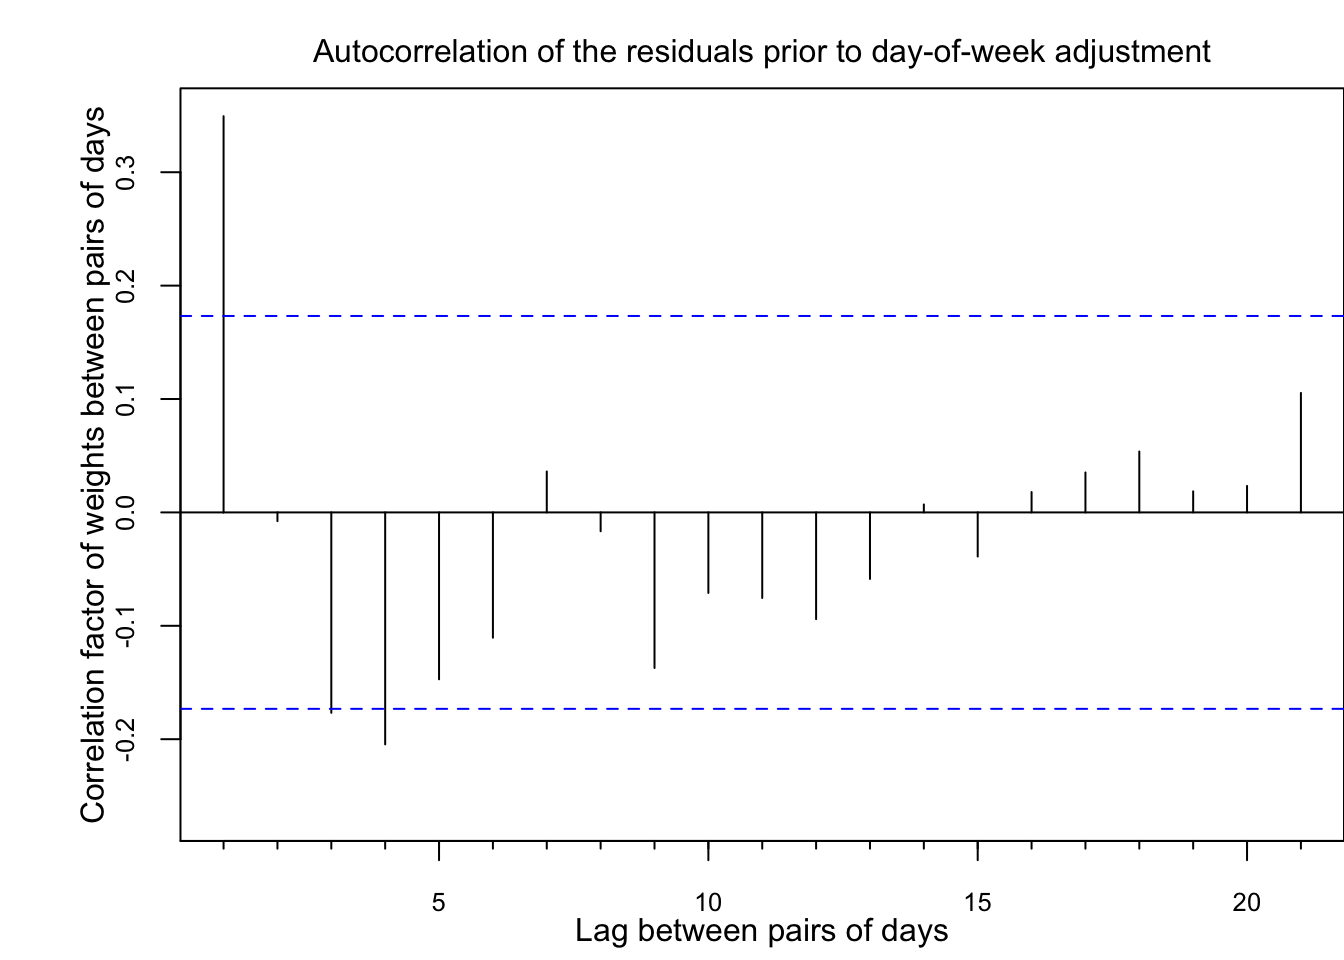
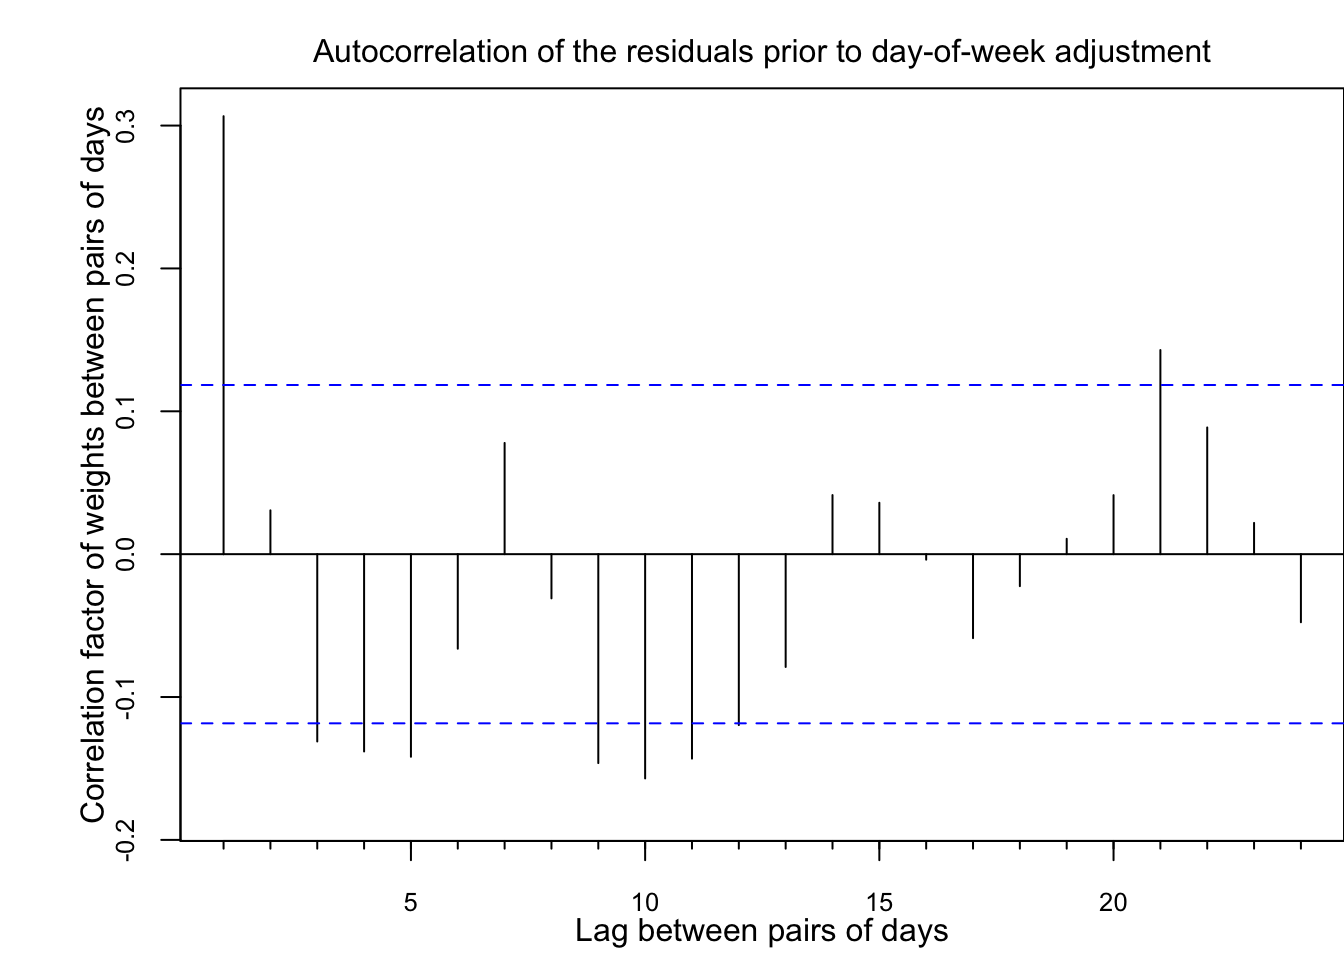
Added GitHub and Shiny links. Corrected minor issue with the ACF plot.

diff --git a/public/2018/02/03/weighing-up-the-data/index.html b/public/2018/02/03/weighing-up-the-data/index.html
@@ -464,7 +464,7 @@ wts.model %&gt;%
      cex.axis = 0.8) 
 
 wts.pred %&gt;%
-  filter(date &lt; ymd(&quot;2017/8/1&quot;), date &lt;= ymd(&quot;2017/12/24&quot;)) %&gt;%
+  filter(date &lt;= ymd(&quot;2017/12/24&quot;)) %&gt;%
   arrange(date) %&gt;%
   select(resid) %&gt;%
   as.ts() %&gt;%
@@ -478,6 +478,11 @@ mtext(side=2, text=&quot;Correlation factor of weights between pairs of days&quo
 mtext(side=3, text=&quot;Autocorrelation of the residuals prior to day-of-week adjustment&quot;, line=0.5)</code></pre>
 <p><img src="../../../../post/2018-01-06-weighing-up-the-data_files/figure-html/resid.acf-1.png" width="672" /></p>
 </div>
+</div>
+<div id="other-references" class="section level1">
+<h1>Other References</h1>
+<p><a href="https://github.com/pennydropper/weigh-up-the-data">Code in GitHub</a></p>
+<p>Link to <a href="https://pennydropper.shinyapps.io/wtcharts/">Shiny webpage</a> with interactive controls.</p>
 </div>
 
   </div>

diff --git a/content/post/2018-01-06-weighing-up-the-data.html b/content/post/2018-01-06-weighing-up-the-data.html
@@ -425,7 +425,7 @@ wts.model %&gt;%
      cex.axis = 0.8) 
 
 wts.pred %&gt;%
-  filter(date &lt; ymd(&quot;2017/8/1&quot;), date &lt;= ymd(&quot;2017/12/24&quot;)) %&gt;%
+  filter(date &lt;= ymd(&quot;2017/12/24&quot;)) %&gt;%
   arrange(date) %&gt;%
   select(resid) %&gt;%
   as.ts() %&gt;%
@@ -439,4 +439,9 @@ mtext(side=2, text=&quot;Correlation factor of weights between pairs of days&quo
 mtext(side=3, text=&quot;Autocorrelation of the residuals prior to day-of-week adjustment&quot;, line=0.5)</code></pre>
 <p><img src="/post/2018-01-06-weighing-up-the-data_files/figure-html/resid.acf-1.png" width="672" /></p>
 </div>
+</div>
+<div id="other-references" class="section level1">
+<h1>Other References</h1>
+<p><a href="https://github.com/pennydropper/weigh-up-the-data">Code in GitHub</a></p>
+<p>Link to <a href="https://pennydropper.shinyapps.io/wtcharts/">Shiny webpage</a> with interactive controls.</p>
 </div>
